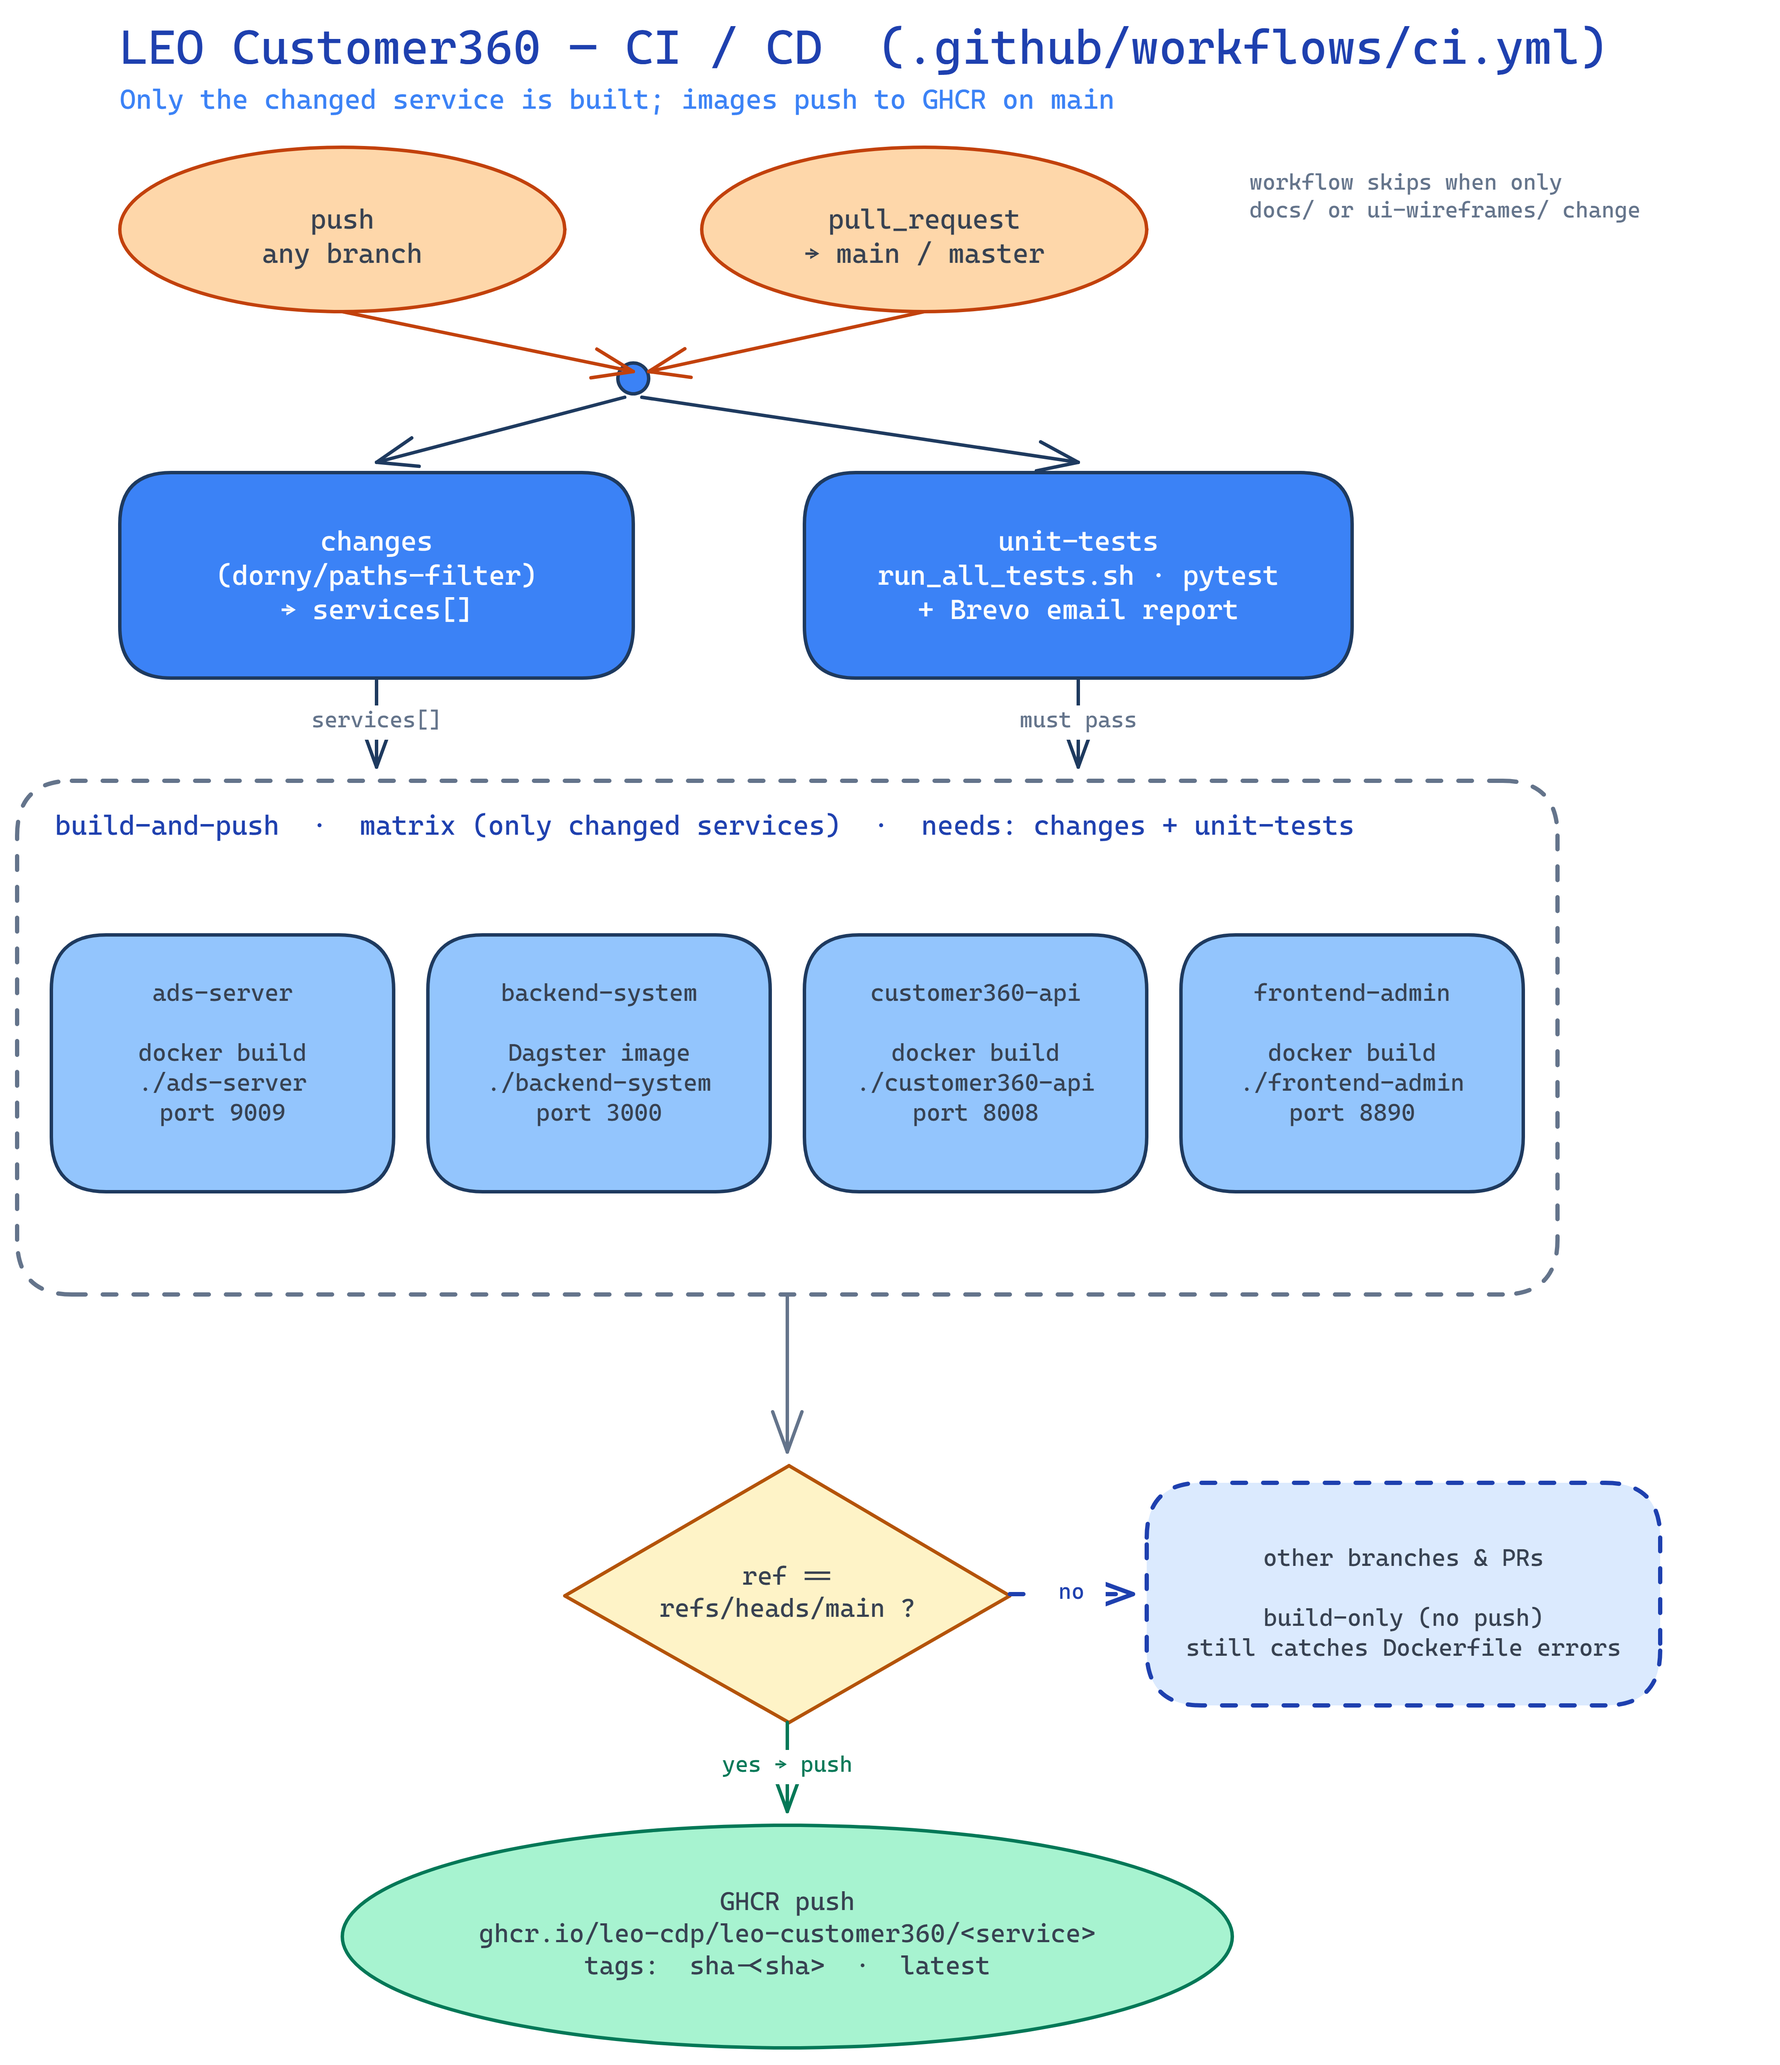
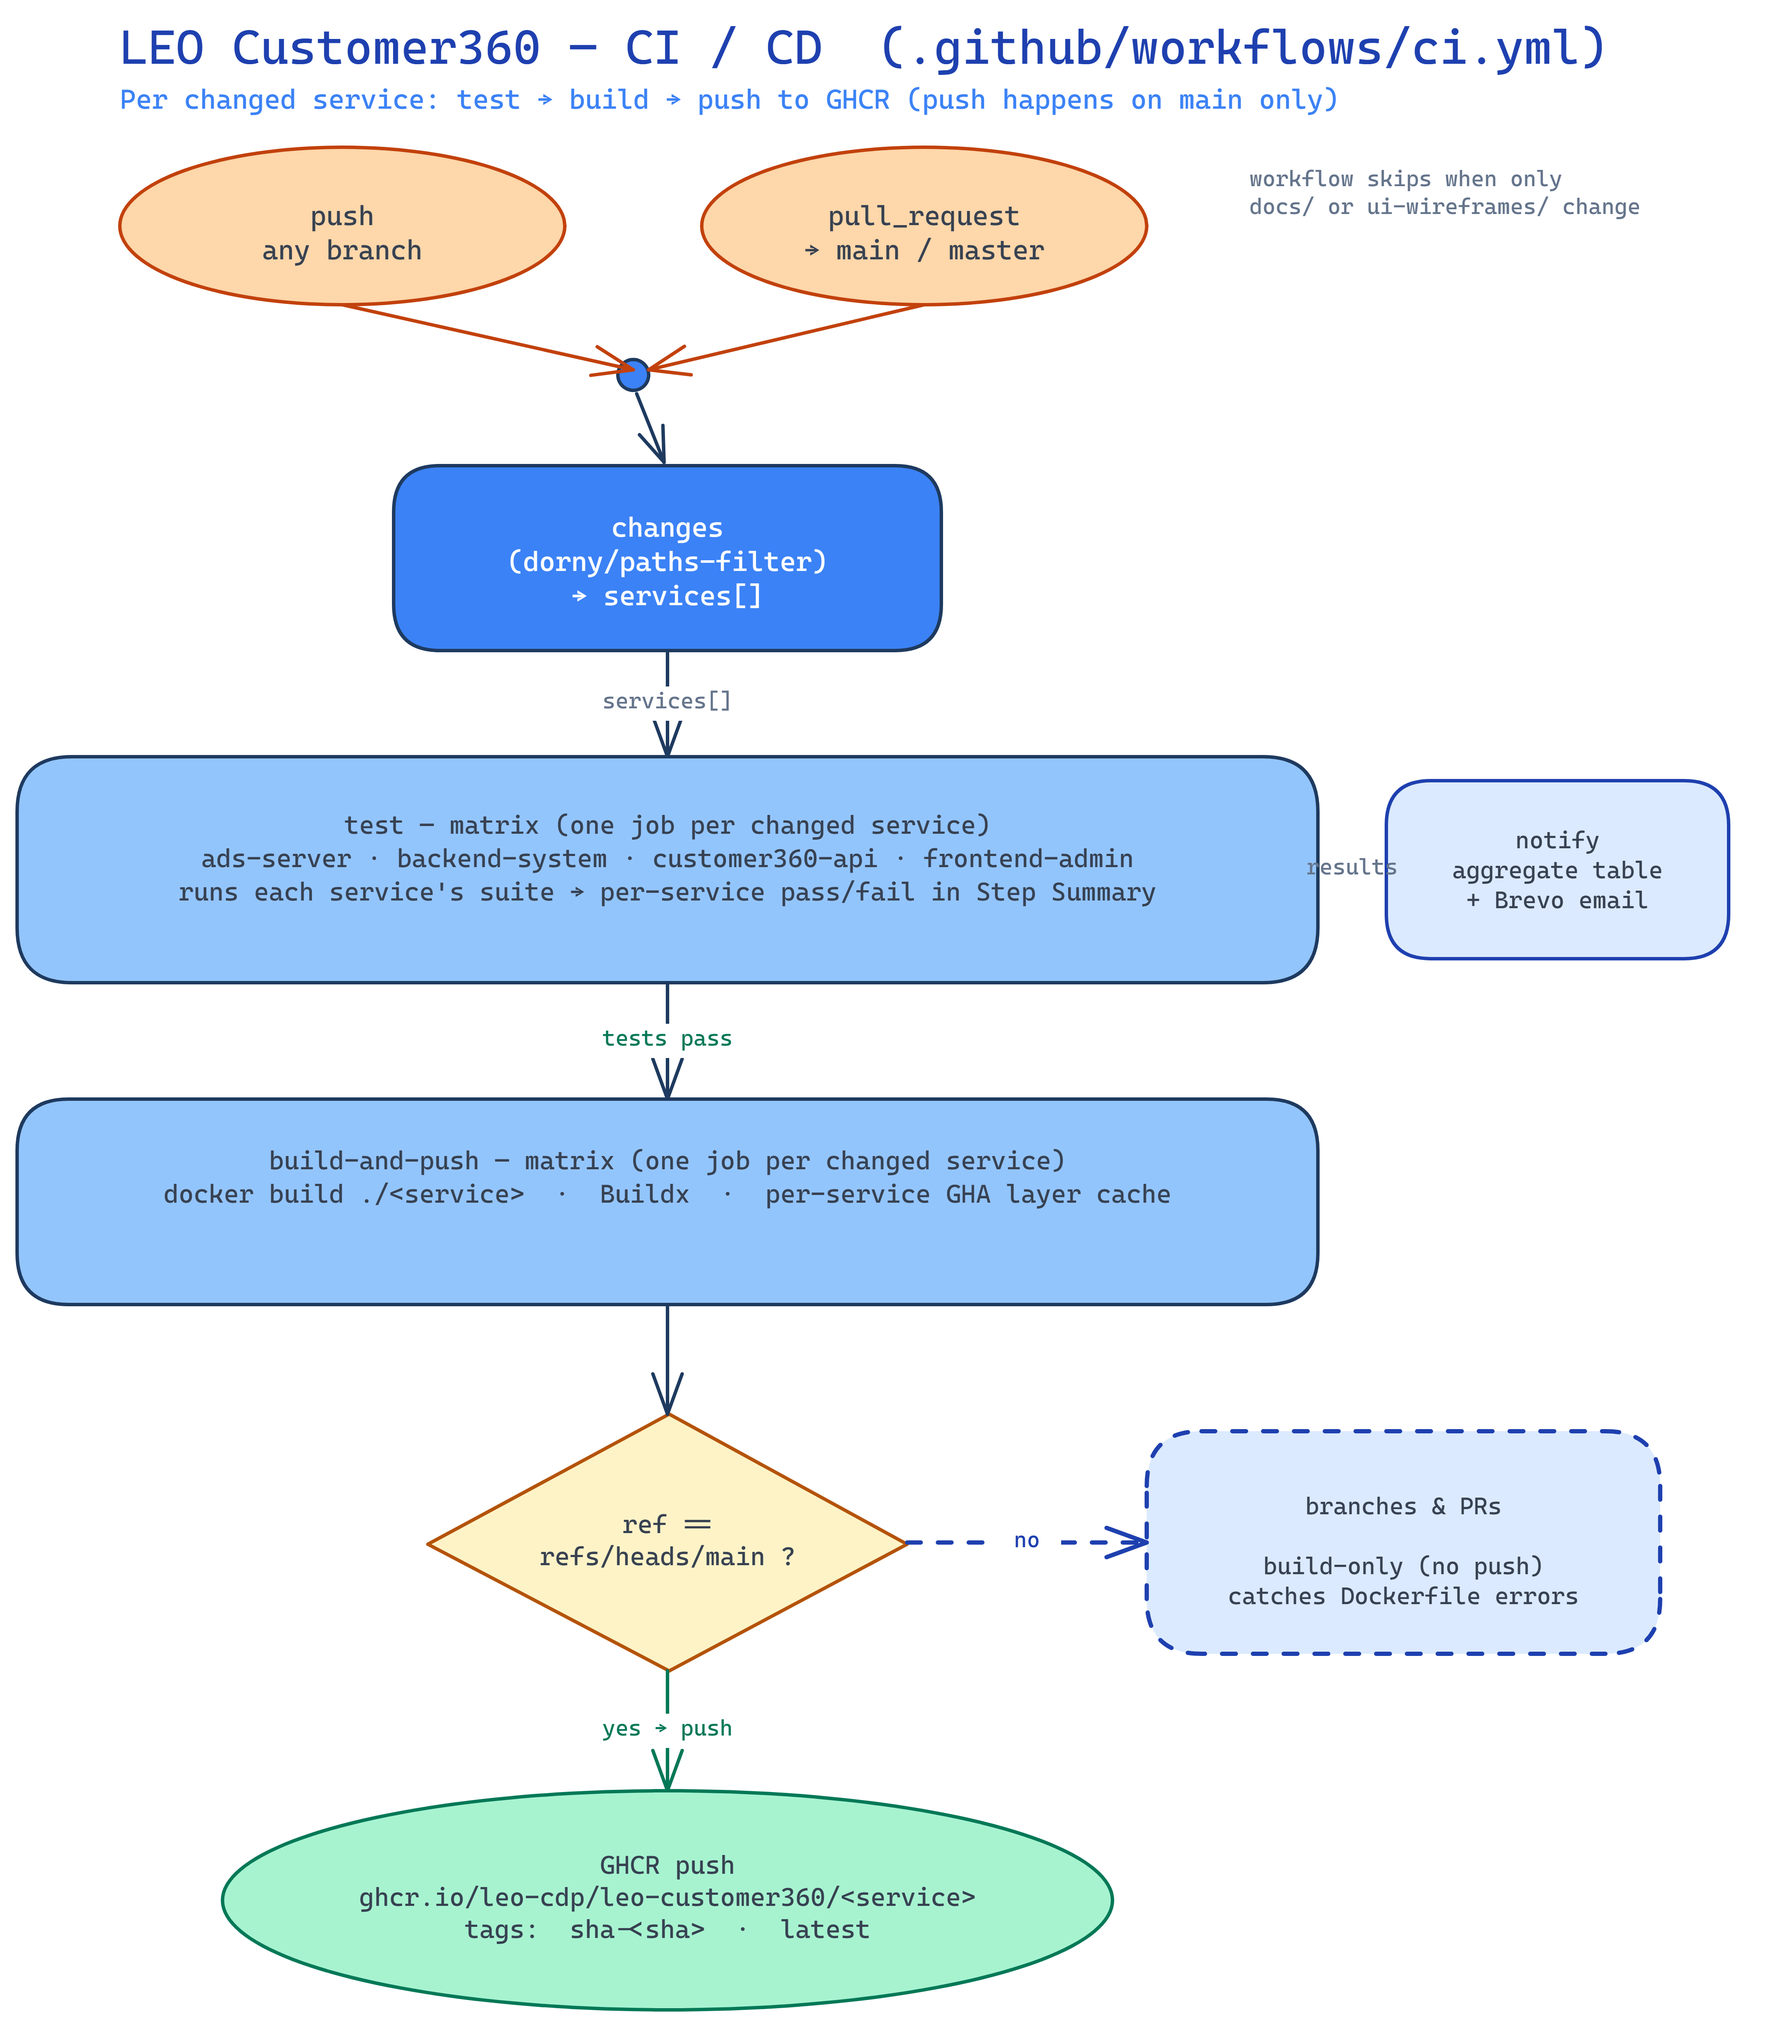
docs: refresh CI README and diagram for per-service test/build
Update .github/README.md and the Excalidraw diagram to reflect the new
pipeline shape: changes -> test matrix (per changed service) -> build-and-push
matrix -> ref==main? push gate, plus the notify aggregation job. Adds a
test-runner column to the services table and the changed-only coverage note.

diff --git a/.github/README.md b/.github/README.md
@@ -1,9 +1,9 @@
 # CI / CD — `leo-customer360`
 
 This folder holds the GitHub Actions automation for the monorepo. The single
-workflow ([`workflows/ci.yml`](workflows/ci.yml)) runs the test suite on every
-change and then **builds only the service(s) that actually changed**, pushing
-their Docker images to the GitHub Container Registry (GHCR) on `main`.
+workflow ([`workflows/ci.yml`](workflows/ci.yml)) runs, **for each changed
+service**, its unit tests and then a Docker build — pushing the image to the
+GitHub Container Registry (GHCR) on `main`.
 
 ![CI/CD pipeline](ci-pipeline.png)
 
@@ -16,49 +16,49 @@ their Docker images to the GitHub Container Registry (GHCR) on `main`.
 
 ### 1. Triggers
 
-The workflow runs on:
+Runs on **`push`** to any branch and on **`pull_request`** targeting
+`main` / `master`. Skipped when a change touches *only* `docs/**` or
+`ui-wireframes/**`.
 
-- **`push`** to any branch
-- **`pull_request`** targeting `main` / `master`
+### 2. `changes` — detect what moved
 
-It is **skipped** when a change touches *only* `docs/**` or `ui-wireframes/**`
-(nothing to test or build there).
+[`dorny/paths-filter`](https://github.com/dorny/paths-filter) compares the diff
+against a filter per service and emits a **JSON array of the changed services**
+(e.g. `["ads-server","frontend-admin"]`), which drives both matrices below.
 
-### 2. `unit-tests`
+### 3. `test` — one job per changed service
 
-Runs `run_all_tests.sh` (pytest) on Python 3.11, uploads the log as an
-artifact, and emails a pass/fail report via Brevo SMTP. This is the existing
-job — unchanged.
+A matrix job (`needs: changes`) that runs **once per changed service**, invoking
+that service's own test runner(s). Each job writes a **per-service result row**
+(Service · Result · Duration) to the run's **Step Summary** and uploads its log.
 
-### 3. `changes` — detect what moved
-
-Uses [`dorny/paths-filter`](https://github.com/dorny/paths-filter) to compare
-the diff against a filter per service. Its `changes` output is a **JSON array of
-the service names that changed** (e.g. `["ads-server","frontend-admin"]`), which
-feeds the build matrix directly.
+> **Coverage note:** tests run only for *changed* services. To test all four on
+> every run, replace `matrix.service` with a static list — there's a one-line
+> comment marking the spot in `ci.yml`.
 
 ### 4. `build-and-push` — one image per changed service
 
-A matrix job (`needs: [changes, unit-tests]`) that runs once **per changed
-service**. If nothing relevant changed, it is skipped entirely.
+A matrix job (`needs: [changes, test]`) — so a service's image builds only after
+**its tests pass**. Builds `./<service>/Dockerfile` with Buildx + a per-service
+GHA layer cache. **Pushes to GHCR only on `main`** (tags `sha-<sha>` + `latest`);
+branches and PRs build-only, still catching Dockerfile breakage.
 
-- **Builds** the service's `Dockerfile` with Buildx + a per-service GHA layer cache.
-- **Pushes to GHCR only on `main`** — tagged with the commit SHA and `latest`.
-- On feature branches and PRs it **builds but does not push**, which still
-  catches Dockerfile breakage before merge.
+### 5. `notify` — aggregate summary + email
 
-> Image push is gated on `unit-tests` passing: a red test run ships no images.
+`needs: [changes, test]`, runs `always()`. Downloads every service's result,
+renders **one aggregated table** into the run summary, and sends the Brevo email
+(subject carries the overall test result; body includes the per-service table).
 
 ---
 
-## Services & images
+## Services, tests & images
 
-| Service          | Build context        | Port | Image on GHCR                                          |
-| ---------------- | -------------------- | ---- | ----------------------------------------------------- |
-| `ads-server`     | `./ads-server`       | 9009 | `ghcr.io/leo-cdp/leo-customer360/ads-server`          |
-| `backend-system` | `./backend-system`   | 3000 | `ghcr.io/leo-cdp/leo-customer360/backend-system`      |
-| `customer360-api`| `./customer360-api`  | 8008 | `ghcr.io/leo-cdp/leo-customer360/customer360-api`     |
-| `frontend-admin` | `./frontend-admin`   | 8890 | `ghcr.io/leo-cdp/leo-customer360/frontend-admin`      |
+| Service          | Build context       | Port | Test runner(s)                                          | Image on GHCR                                      |
+| ---------------- | ------------------- | ---- | ------------------------------------------------------- | -------------------------------------------------- |
+| `ads-server`     | `./ads-server`      | 9009 | `run_unit_tests.sh`                                     | `ghcr.io/leo-cdp/leo-customer360/ads-server`       |
+| `backend-system` | `./backend-system`  | 3000 | `identity_resolution/run_tests.sh` + `segmentation/run_tests.sh` | `ghcr.io/leo-cdp/leo-customer360/backend-system`   |
+| `customer360-api`| `./customer360-api` | 8008 | `run_unit_tests.sh`                                     | `ghcr.io/leo-cdp/leo-customer360/customer360-api`  |
+| `frontend-admin` | `./frontend-admin`  | 8890 | *(none — reported as skip)*                             | `ghcr.io/leo-cdp/leo-customer360/frontend-admin`   |
 
 Each image is published with two tags on `main`:
 
@@ -66,40 +66,37 @@ Each image is published with two tags on `main`:
 - `latest` — the newest build on the default branch
 
 ```bash
-# Pull a specific, reproducible build
 docker pull ghcr.io/leo-cdp/leo-customer360/customer360-api:sha-<git-sha>
-
-# Or the latest from main
 docker pull ghcr.io/leo-cdp/leo-customer360/customer360-api:latest
 ```
+
+The full local run of every suite still lives in [`../run_all_tests.sh`](../run_all_tests.sh).
 
 ---
 
 ## Operating notes
 
 - **Registry auth.** Push uses the built-in `GITHUB_TOKEN` with `packages: write`
-  (scoped to the build job). No extra secret needed. Make sure the org allows
-  Actions to write packages, and that each package's visibility/access is set as
-  you want under the repo/org **Packages** settings.
-- **Lowercase image names.** GHCR requires lowercase paths. `docker/metadata-action`
+  (scoped to the build job). No extra secret needed. If a push returns `403`,
+  set **Settings → Actions → General → Workflow permissions** to *Read and write*,
+  and check the org/package **Packages** access.
+- **Lowercase image names.** GHCR requires lowercase paths; `docker/metadata-action`
   lowercases automatically, so the uppercase org (`LEO-CDP`) in
   `${{ github.repository }}` is handled for you.
-- **Add a service.** Add one line to the `changes` job's `filters:` and the
-  matrix picks it up — no other change needed (the build step is generic:
-  `context: ./<service>`, `file: ./<service>/Dockerfile`).
-- **`backend-system/identity_resolution`** has its own `Dockerfile` but is not
-  built here yet. Add a filter + a dedicated matrix leg if you want it published.
-- **Want frontend images independent of Python tests?** Change
-  `build-and-push`'s `needs:` to drop `unit-tests` (trade-off: images could then
-  publish even if tests fail).
+- **Add a service.** Add one line to the `changes` job's `filters:` and one `case`
+  arm in the `test` job's runner map; both matrices pick it up automatically.
+- **Test/build gating is all-or-nothing across the matrix:** if any service's
+  tests fail, the whole `test` job is red and `build-and-push` is skipped.
+- **`backend-system/identity_resolution`** also has its own `Dockerfile` but is
+  not built as a separate image; add a filter + matrix arm if you want it.
 
 ---
 
 ## Secrets used
 
-| Secret               | Used by       | Purpose                          |
-| -------------------- | ------------- | -------------------------------- |
-| `GITHUB_TOKEN`       | build-and-push| GHCR login/push (auto-provided)  |
-| `BREVO_SMTP_LOGIN`   | unit-tests    | Email report auth                |
-| `BREVO_SMTP_KEY`     | unit-tests    | Email report auth                |
-| `BREVO_SENDER_EMAIL` | unit-tests    | Email report `from:` address     |
+| Secret               | Used by | Purpose                          |
+| -------------------- | ------- | -------------------------------- |
+| `GITHUB_TOKEN`       | build   | GHCR login/push (auto-provided)  |
+| `BREVO_SMTP_LOGIN`   | notify  | Email report auth                |
+| `BREVO_SMTP_KEY`     | notify  | Email report auth                |
+| `BREVO_SENDER_EMAIL` | notify  | Email report `from:` address     |
